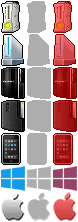
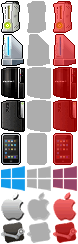
Releases with Steam; Minor copy edits

diff --git a/index.html b/index.html
@@ -197,7 +197,7 @@ while(x=eval(x));
     <div class="span6">
       <h2>Creative Director</h2>
       <div class="alert alert-info">Space Between Studios <small class="pull-right">Oct 2012 - Current</small></div>
-      <p>Pre-production for non-fiction title "Understanding Video Games," a video game narrative illustrating how video games communicate to a player, using a video game. Seg is developing the project with editorial contributions of the gaming community.</p>
+      <p>Pre-production for non-fiction title "Understanding Video Games," a video game narrative illustrating how video games communicate to a player, using a video game. Seg is developing the project with editorial contributions from the gaming community.</p>
     </div>
     <div class="span6">
       <h2>Web Design &amp; Programming</h2>
@@ -228,7 +228,7 @@ while(x=eval(x));
     <div class="span6">
       <h2>Co-Founder &amp; Event Producer</h2>
       <div class="alert alert-info">Ümloud! <small class="pull-right">Nov 2009 - Current</small></div>
-      <p>Ümloud! a non-profit organization which holds an annual charity concert to support Child’s Play and over 70 children’s hospitals around the world. Individuals donate to perform a live concert using the game Rock Band at DNA Lounge’s concert stage. An experience you can’t get in your living room!</p>
+      <p>Ümloud! a non-profit organization which holds an annual charity concert to support Child’s Play and over 70 children’s hospitals around the world. Individuals donate to perform a live concert using the game Rock Band at DNA Lounge’s concert stage; an experience you can’t get in your living room!</p>
       <p>As co-founder and lead event producer, Seg has helped raise over $80,000 for children’s hospitals around the world since 2009.</p>
     </div>
   </div>
@@ -243,7 +243,7 @@ while(x=eval(x));
       <h2>Lead Web Developer</h2>
       <div class="alert alert-info">Emerson College <small class="pull-right">Apr 2005 - Mar 2007</small></div>
       <p>The department of Enrollment and Student Affairs presented a number of challenges in improving processes and systems across different departments. Seg developed use cases and requirements in consultation with housing, performing arts, admissions, and other departments in the institution for various services.</p>
-      <p>After re-designing processes, Seg and his team developed web based tools to aid staff and students in various aspects of college life. The college improved not only efficiencies and worker productivity, but reducing economic and other variables in the admission process. Seg initiated processes that lead to fairer practices and quality experiences in the admissions process and other aspects of student life.</p>
+      <p>After re-designing processes, Seg and his team developed web based tools to aid staff and students in various aspects of college life. The college improved not only efficiencies and worker productivity, but reduced economic and other variables in the admission process. Seg initiated processes that lead to fairer practices and quality experiences in the admissions process and other aspects of student life.</p>
     </div>
   </div>
 
@@ -347,6 +347,7 @@ while(x=eval(x));
           <ul class="inline">
             <li><div class="platform-win"></div></li>
             <li><div class="platform-mac"></div></li>
+            <li><div class="platform-steam"></div></li>
             <li><div class="platform-xbox360"></div></li>
             <li><div class="platform-ps3"></div></li>
             <li><div class="platform-wii platform-not"></div></li>
@@ -372,6 +373,7 @@ while(x=eval(x));
           <ul class="inline">
             <li><div class="platform-win"></div></li>
             <li><div class="platform-mac"></div></li>
+            <li><div class="platform-steam"></div></li>
             <li><div class="platform-xbox360"></div></li>
             <li><div class="platform-ps3"></div></li>
             <li><div class="platform-wii platform-not"></div></li>
@@ -398,6 +400,7 @@ while(x=eval(x));
           <ul class="inline">
             <li><div class="platform-win"></div></li>
             <li><div class="platform-mac"></div></li>
+            <li><div class="platform-steam"></div></li>
             <li><div class="platform-xbox360 platform-not"></div></li>
             <li><div class="platform-ps3"></div></li>
             <li><div class="platform-wii platform-not"></div></li>
@@ -422,6 +425,7 @@ while(x=eval(x));
           <ul class="inline">
             <li><div class="platform-win"></div></li>
             <li><div class="platform-mac"></div></li>
+            <li><div class="platform-steam"></div></li>
             <li><div class="platform-xbox360 platform-not"></div></li>
             <li><div class="platform-ps3"></div></li>
             <li><div class="platform-wii"></div></li>
@@ -446,6 +450,7 @@ while(x=eval(x));
           <ul class="inline">
             <li><div class="platform-win"></div></li>
             <li><div class="platform-mac"></div></li>
+            <li><div class="platform-steam"></div></li>
             <li><div class="platform-xbox360 platform-not"></div></li>
             <li><div class="platform-ps3"></div></li>
             <li><div class="platform-wii platform-unreleased"></div></li>
@@ -468,6 +473,7 @@ while(x=eval(x));
           <ul class="inline">
             <li><div class="platform-win"></div></li>
             <li><div class="platform-mac"></div></li>
+            <li><div class="platform-steam"></div></li>
             <li><div class="platform-xbox360 platform-not"></div></li>
             <li><div class="platform-ps3 platform-not"></div></li>
             <li><div class="platform-wii platform-not"></div></li>
@@ -504,6 +510,7 @@ while(x=eval(x));
           <ul class="inline">
             <li><div class="platform-win"></div></li>
             <li><div class="platform-mac"></div></li>
+            <li><div class="platform-steam"></div></li>
             <li><div class="platform-xbox360"></div></li>
             <li><div class="platform-ps3"></div></li>
             <li><div class="platform-wii"></div></li>
@@ -541,6 +548,7 @@ while(x=eval(x));
           <ul class="inline">
             <li><div class="platform-win"></div></li>
             <li><div class="platform-mac"></div></li>
+            <li><div class="platform-steam"></div></li>
             <li><div class="platform-xbox360"></div></li>
             <li><div class="platform-ps3"></div></li>
             <li><div class="platform-wii"></div></li>
@@ -565,6 +573,7 @@ while(x=eval(x));
           <ul class="inline">
             <li><div class="platform-win"></div></li>
             <li><div class="platform-mac"></div></li>
+            <li><div class="platform-steam"></div></li>
             <li><div class="platform-xbox360 platform-not"></div></li>
             <li><div class="platform-ps3"></div></li>
             <li><div class="platform-wii platform-not"></div></li>
@@ -590,6 +599,7 @@ while(x=eval(x));
           <ul class="inline">
             <li><div class="platform-win"></div></li>
             <li><div class="platform-mac"></div></li>
+            <li><div class="platform-steam"></div></li>
             <li><div class="platform-xbox360 platform-not"></div></li>
             <li><div class="platform-ps3"></div></li>
             <li><div class="platform-wii"></div></li>
@@ -615,6 +625,7 @@ while(x=eval(x));
           <ul class="inline">
             <li><div class="platform-win"></div></li>
             <li><div class="platform-mac"></div></li>
+            <li><div class="platform-steam"></div></li>
             <li><div class="platform-xbox360 platform-not"></div></li>
             <li><div class="platform-ps3"></div></li>
             <li><div class="platform-wii"></div></li>
@@ -640,6 +651,7 @@ while(x=eval(x));
           <ul class="inline">
             <li><div class="platform-win"></div></li>
             <li><div class="platform-mac platform-not"></div></li>
+            <li><div class="platform-steam"></div></li>
             <li><div class="platform-xbox360"></div></li>
             <li><div class="platform-ps3 platform-not"></div></li>
             <li><div class="platform-wii platform-not"></div></li>
@@ -665,6 +677,7 @@ while(x=eval(x));
           <ul class="inline">
             <li><div class="platform-win"></div></li>
             <li><div class="platform-mac platform-not"></div></li>
+            <li><div class="platform-steam platform-not"></div></li>
             <li><div class="platform-xbox360"></div></li>
             <li><div class="platform-ps3 platform-not"></div></li>
             <li><div class="platform-wii"></div></li>
@@ -690,6 +703,7 @@ while(x=eval(x));
           <ul class="inline">
             <li><div class="platform-win"></div></li>
             <li><div class="platform-mac platform-not"></div></li>
+            <li><div class="platform-steam platform-not"></div></li>
             <li><div class="platform-xbox360"></div></li>
             <li><div class="platform-ps3 platform-not"></div></li>
             <li><div class="platform-wii"></div></li>
@@ -715,6 +729,7 @@ while(x=eval(x));
           <ul class="inline">
             <li><div class="platform-win"></div></li>
             <li><div class="platform-mac platform-not"></div></li>
+            <li><div class="platform-steam platform-not"></div></li>
             <li><div class="platform-xbox360"></div></li>
             <li><div class="platform-ps3"></div></li>
             <li><div class="platform-wii"></div></li>

diff --git a/css/seg_resume.css b/css/seg_resume.css
@@ -1,1 +1,1 @@
-[class*=" platform-"]:before{text-decoration:inherit;display:inline-block;speak:none}.platform-not{opacity:1}.platform-unreleased{opacity:.75}.platform-win{background:url('../img/platform_icons.png') no-repeat -1px -166px;width:24px;height:25px}.platform-win.platform-not{background-position:-27px -166px}.platform-macosx{background:url('../img/platform_icons.png') no-repeat -1px -192px;width:24px;height:29px}.platform-macosx.platform-not{background-position:-27px -192px}.platform-mac{background:url('../img/platform_icons.png') no-repeat -1px -192px;width:24px;height:29px}.platform-mac.platform-not{background-position:-27px -192px}.platform-xbox360{background:url('../img/platform_icons.png') no-repeat -1px -1px;width:19px;height:32px}.platform-xbox360.platform-not{background-position:-27px -1px}.platform-wii{background:url('../img/platform_icons.png') no-repeat -1px -34px;width:23px;height:32px}.platform-wii.platform-not{background-position:-27px -34px}.platform-wii.platform-unreleased{background-position:-53px -34px}.platform-ps3{background:url('../img/platform_icons.png') no-repeat -1px -67px;width:24px;height:32px}.platform-ps3.platform-not{background-position:-27px -67px}.platform-ps3-slim{background:url('../img/platform_icons.png') no-repeat -1px -100px;width:23px;height:32px}.platform-ps3-slim.platform-not{background-position:-27px -100px}.platform-ios{background:url('../img/platform_icons.png') no-repeat -1px -133px;width:20px;height:32px}.platform-ios.platform-not{background-position:-27px -133px}.hero-unit{-webkit-border-top-right-radius:0;-webkit-border-bottom-right-radius:5px;-webkit-border-bottom-left-radius:5px;-webkit-border-top-left-radius:0;-moz-border-radius-topright:0;-moz-border-radius-bottomright:5px;-moz-border-radius-bottomleft:5px;-moz-border-radius-topleft:0;border-top-right-radius:0;border-bottom-right-radius:5px;border-bottom-left-radius:5px;border-top-left-radius:0;-moz-background-clip:padding-box;-webkit-background-clip:padding-box;background-clip:padding-box;background:#000 url('../img/main_banner.jpg') no-repeat;margin:0;color:#fff;text-align:left;height:250px;border-width:0;-webkit-box-shadow:inset 0 0 22px #000;-moz-box-shadow:inset 0 0 22px #000;box-shadow:inset 0 0 22px #000}.hero-unit h1{text-shadow:0 0 20px #000;-webkit-text-stroke:2px black}.hero-unit .lead{text-shadow:1px 1px 5px #000}.hero-unit .text-unit{margin-top:10%;margin-left:-2%}#navigation{padding-top:57px;margin-top:0}#introduction{text-align:center}#introduction blockquote{text-align:left}#introduction .featured-icon{font-size:60pt}#introduction .featured-icon-small{font-size:43pt}
+[class*=" platform-"]:before{text-decoration:inherit;display:inline-block;speak:none}.platform-not{opacity:1}.platform-unreleased{opacity:.75}.platform-win{background:url('../img/platform_icons.png') no-repeat -1px -166px;width:24px;height:25px}.platform-win.platform-not{background-position:-27px -166px}.platform-macosx{background:url('../img/platform_icons.png') no-repeat -1px -192px;width:24px;height:29px}.platform-macosx.platform-not{background-position:-27px -192px}.platform-mac{background:url('../img/platform_icons.png') no-repeat -1px -192px;width:24px;height:29px}.platform-mac.platform-not{background-position:-27px -192px}.platform-xbox360{background:url('../img/platform_icons.png') no-repeat -1px -1px;width:19px;height:32px}.platform-xbox360.platform-not{background-position:-27px -1px}.platform-wii{background:url('../img/platform_icons.png') no-repeat -1px -34px;width:23px;height:32px}.platform-wii.platform-not{background-position:-27px -34px}.platform-wii.platform-unreleased{background-position:-53px -34px}.platform-ps3{background:url('../img/platform_icons.png') no-repeat -1px -67px;width:24px;height:32px}.platform-ps3.platform-not{background-position:-27px -67px}.platform-ps3-slim{background:url('../img/platform_icons.png') no-repeat -1px -100px;width:23px;height:32px}.platform-ps3-slim.platform-not{background-position:-27px -100px}.platform-ios{background:url('../img/platform_icons.png') no-repeat -1px -133px;width:20px;height:32px}.platform-ios.platform-not{background-position:-27px -133px}.platform-steam{background:url('../img/platform_icons.png') no-repeat -1px -222px;width:24px;height:21px;padding-bottom:3px}.platform-steam.platform-not{background-position:-27px -222px}.platform-steam.platform-unreleased{background-position:-53px -222px}.hero-unit{-webkit-border-top-right-radius:0;-webkit-border-bottom-right-radius:5px;-webkit-border-bottom-left-radius:5px;-webkit-border-top-left-radius:0;-moz-border-radius-topright:0;-moz-border-radius-bottomright:5px;-moz-border-radius-bottomleft:5px;-moz-border-radius-topleft:0;border-top-right-radius:0;border-bottom-right-radius:5px;border-bottom-left-radius:5px;border-top-left-radius:0;-moz-background-clip:padding-box;-webkit-background-clip:padding-box;background-clip:padding-box;background:#000 url('../img/main_banner.jpg') no-repeat;margin:0;color:#fff;text-align:left;height:250px;border-width:0;-webkit-box-shadow:inset 0 0 22px #000;-moz-box-shadow:inset 0 0 22px #000;box-shadow:inset 0 0 22px #000}.hero-unit h1{text-shadow:0 0 20px #000;-webkit-text-stroke:2px black}.hero-unit .lead{text-shadow:1px 1px 5px #000}.hero-unit .text-unit{margin-top:10%;margin-left:-2%}#navigation{padding-top:57px;margin-top:0}#introduction{text-align:center}#introduction blockquote{text-align:left}#introduction .featured-icon{font-size:60pt}#introduction .featured-icon-small{font-size:43pt}

diff --git a/js/seg_resume.min.js b/js/seg_resume.min.js
@@ -1,3 +1,3 @@
 /*
     Seg's Resume - JavaScript
-*/$(document).ready(function(){$(".platform-wii.platform-unreleased").tooltip({placement:"bottom",html:!0,title:"Developed for but not released on Nintendo Wii."});$(".platform-win").tooltip({placement:"bottom",html:!0,title:"Microsoft Windows<br>Self publish, Steam, &amp; Retail Disc"});$(".platform-macosx, .platform-mac").tooltip({placement:"bottom",html:!0,title:"Mac OS X<br>Self publish, Steam, &amp; Retail Disc"});$(".platform-xbox360").tooltip({placement:"bottom",html:!0,title:"Microsoft Xbox 360<br>XBLA &amp; Retail Disc"});$(".platform-ps3").tooltip({placement:"bottom",html:!0,title:"Sony PlayStation 3<br>PSN &amp; Retail Disc"});$(".platform-wii").tooltip({placement:"bottom",html:!0,title:"Nintendo Wii<br>WiiWare &amp; Retail Disc"});$(".platform-ios").tooltip({placement:"bottom",html:!0,title:"iOS<br>iPhone &amp; iPad"});$(".note-local").tooltip({placement:"bottom",html:!0,title:"Includes localizations and/or ports developed after initial release."})});
+*/$(document).ready(function(){$(".platform-wii.platform-unreleased").tooltip({placement:"bottom",html:!0,title:"Developed for but not released on Nintendo Wii."});$(".platform-win").tooltip({placement:"bottom",html:!0,title:"Microsoft Windows<br>Self publish, Steam, &amp; Retail Disc"});$(".platform-macosx, .platform-mac").tooltip({placement:"bottom",html:!0,title:"Mac OS X<br>Self publish, Steam, &amp; Retail Disc"});$(".platform-xbox360").tooltip({placement:"bottom",html:!0,title:"Microsoft Xbox 360<br>XBLA &amp; Retail Disc"});$(".platform-ps3").tooltip({placement:"bottom",html:!0,title:"Sony PlayStation 3<br>PSN &amp; Retail Disc"});$(".platform-wii").tooltip({placement:"bottom",html:!0,title:"Nintendo Wii<br>WiiWare &amp; Retail Disc"});$(".platform-ios").tooltip({placement:"bottom",html:!0,title:"iOS<br>iPhone &amp; iPad"});$(".platform-steam").tooltip({placement:"bottom",html:!0,title:"Steam &amp; Steamworks<br>for Windows &amp; Mac OS X"});$(".note-local").tooltip({placement:"bottom",html:!0,title:"Includes localizations and/or ports developed after initial release."})});

diff --git a/js/seg_resume.js b/js/seg_resume.js
@@ -38,6 +38,11 @@ $(document).ready(function() {
         'html':true,
         'title':"iOS<br>iPhone &amp; iPad",
     });
+    $(".platform-steam").tooltip({
+        'placement':'bottom',
+        'html':true,
+        'title':"Steam &amp; Steamworks<br>for Windows &amp; Mac OS X",
+    });
     $(".note-local").tooltip({
         'placement':'bottom',
         'html':true,

diff --git a/less/platform_icons.less b/less/platform_icons.less
@@ -76,5 +76,17 @@
     background-position:-27px -133px;
   }
 }
+.platform-steam {
+  background: url('../img/platform_icons.png') no-repeat -1px -222px;
+  width: 24px;
+  height: 21px;
+  padding-bottom:3px;
+  &.platform-not {
+    background-position:-27px -222px;
+  }
+  &.platform-unreleased {
+    background-position:-53px -222px;
+  }
+}
 
 
